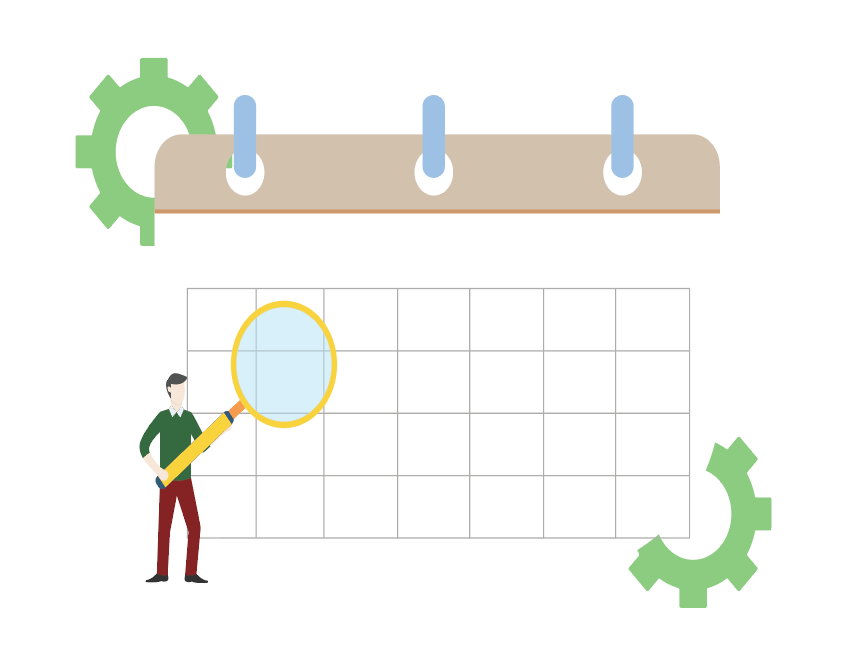
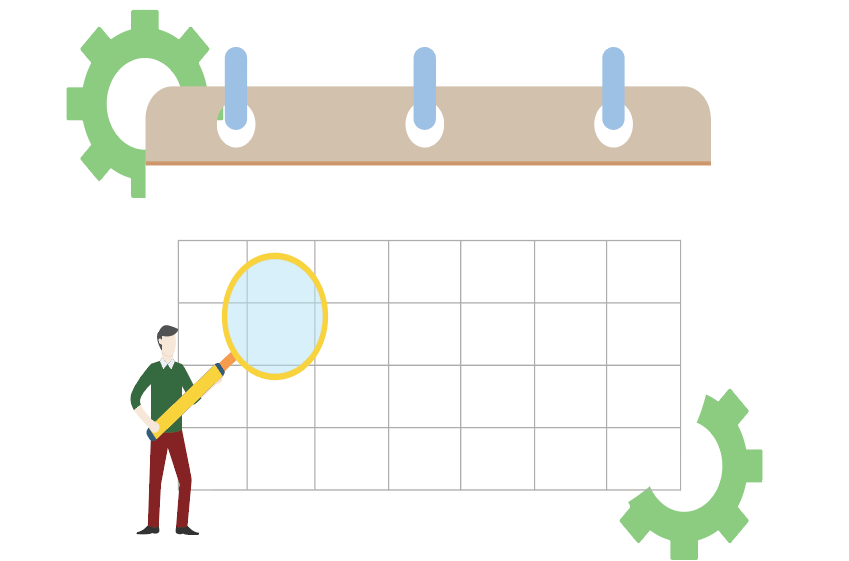
UX

Changed region(s): [[0.1531, 0.4242, 0.9187, 1.0], [0.0612, 0.0, 0.8575, 0.3939]]

diff --git a/client/src/pages/SingleEvent.js b/client/src/pages/SingleEvent.js
@@ -18,7 +18,7 @@ class SingleEvent extends Component {
         super(props);
 
         this.state= {
-            token: this.props.location.state.token,
+            token: null,
             eAdmin: "",
             eName: "",
             ePlace: "",
@@ -38,6 +38,11 @@ class SingleEvent extends Component {
     }
 
     componentDidMount() {
+        if(this.props.location.state){
+            this.setState({
+                token:this.props.location.state.token
+            })
+        }
         const obj = getFromStorage('the_main_app');
         if (obj){
             const { token }= obj;
@@ -335,7 +340,7 @@ class SingleEvent extends Component {
                     </li>
                 </ul>
                 <Jumbotron>
-                    <h1>Add conferences to {this.state.eName} </h1>
+                    <h1 id="fontAdminEvents">Add conferences to {this.state.eName} </h1>
                     <List>
                         <ListItem
                             key={this.state.eId}

diff --git a/client/src/pages/List.js b/client/src/pages/List.js
@@ -195,11 +195,14 @@ class EventsList extends Component {
 					</li>
 				</ul>
 				
-					 
-  <div className="col-6" id="currentEvent">
+				
+				
+				<div className="grid-container">
+  <div className="grid-item" id="currentEvent">
 
   <Jumbotron> 	
   <List>
+	
 						<h1 id="currentEvents">Current Events </h1>
 
 
@@ -213,15 +216,16 @@ class EventsList extends Component {
 								/>
 							)
 						})}
-				
+					
 					</List>
+			
+
 					</Jumbotron>				
 					
   </div>
 
-
   <Jumbotron3>
- <div className="col-5"  id="eventsAdded">
+ <div className="grid-item" id="eventsAdded">
 
 <h3 id="fontEventsAdded">Events Added </h3>
 <List styleProp={listStyle}>
@@ -243,7 +247,7 @@ class EventsList extends Component {
 
 
 
-
+</div>
 
 
 			

diff --git a/client/src/pages/AdminEvent.js b/client/src/pages/AdminEvent.js
@@ -145,9 +145,7 @@ class AdminEvent extends Component {
             <Container>
              
                 <Jumbotron>
-
-                    <div id="adminEvents">
-                    <h1 id="fontAdminEvents">Add conferences to {this.state.eName} </h1>
+                    <h1 id>Add conferences to {this.state.eName} </h1>
                     <List>
                         <ListItem
                             key={this.state.eId}
@@ -160,7 +158,7 @@ class AdminEvent extends Component {
                         />
                        
                     </List>
-                    </div>
+   
     
                 </Jumbotron>
 

diff --git a/client/src/components/AddNextEvent/AddNextEvent.css b/client/src/components/AddNextEvent/AddNextEvent.css
@@ -1,18 +1,12 @@
+.grid-item{
+  width: 45%;
+}
 #eventsAdded{
-  position: absolute;
+
   background-image:  url("../../images/eventsAdded.png");
-    /* background-color: rgba(226, 183, 43, 0.555); */
     text-shadow: 1px 2px 1px rgba(0,0,0,0.3);
     text-align: center;
     border-radius: 10px; 
-    /* margin-top: -48%; */
-margin-left: 55%;
-padding-bottom: 4%;
-Padding-top: 2%;
-background-position: -50%;
-margin-top: -48%;
-
-
 }
 
 #fontEventsAdded{

diff --git a/client/src/components/Jumbotron/jumbotronStyle.css b/client/src/components/Jumbotron/jumbotronStyle.css
@@ -4,6 +4,7 @@ background: none;
     padding-top: 8%;
     margin-top: 3%;
     text-align: center;
+ 
 
     font-family: 'Montserrat', sans-serif;
 }
@@ -46,9 +47,10 @@ blockquote:first-letter {
     z-index: 1;
     font-style: italic;
     /* padding-left: 10%; */
-    letter-spacing: -.6em;
+    letter-spacing: -.1em;
 }
 
 #fontAdminEvents{
     font-family: 'Montserrat';
+
 }

diff --git a/client/src/components/JumbotronListEvents/JumbotronListEvents.css b/client/src/components/JumbotronListEvents/JumbotronListEvents.css
@@ -1,9 +1,13 @@
+.grid-item{
+    width: 45%;
+    padding-left: 3%;
+}
 #jumbotron1 {
     background-image:  url("../../images/eventCalendar.png");
 
-background-position: 60%;
+/* background-position: 60%; */
 
-margin-top: 3%;
+/* margin-top: 3%; */
 
 background-repeat: no-repeat;
 background-color: white;

diff --git a/client/src/pages/Event.js b/client/src/pages/Event.js
@@ -159,7 +159,7 @@ class Event extends Component {
 
 						<blockquote id="blockquote">
 		
-							<strong>Conference</strong>  <em>information</em>
+							<strong>Event</strong>  <em>information</em>
 				
 						</blockquote>
 						<br/>
